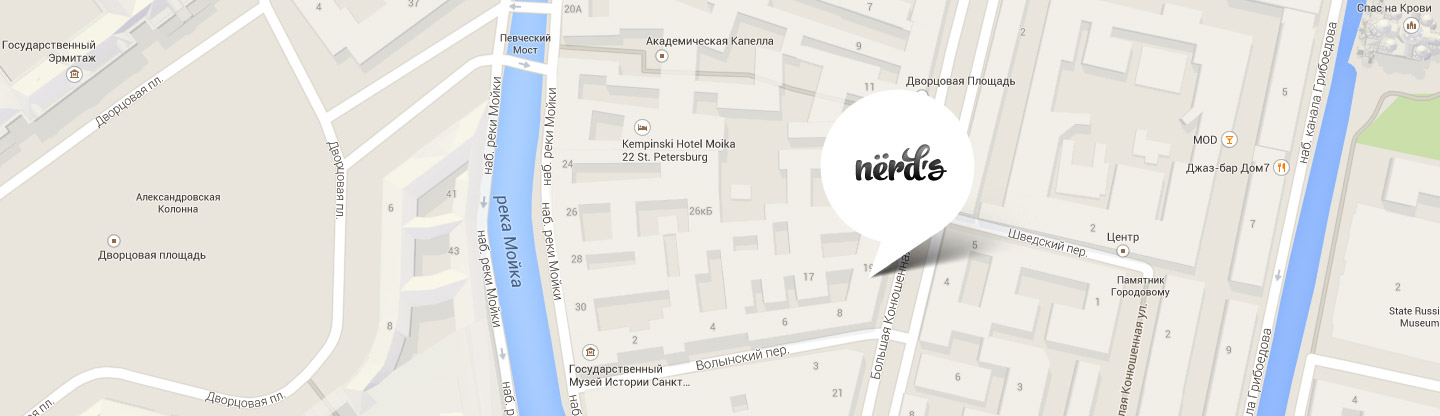
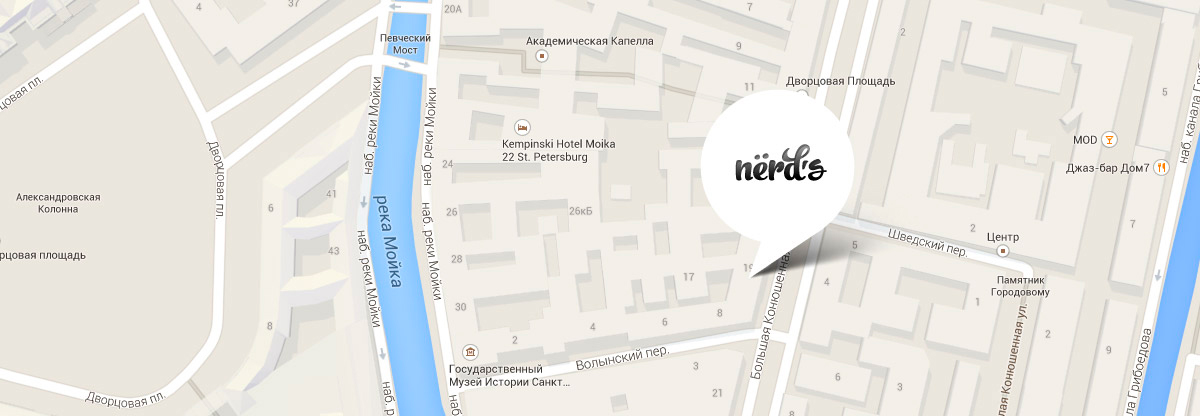
Изменена карта, исправлены мелкие неточности с цветами и эффектами

diff --git a/css/style.css b/css/style.css
@@ -795,11 +795,12 @@ opacity: 0.3;
   background-image: url(../img/checkbox-on.svg);
   background-repeat: no-repeat;
   background-position: 0 0;
-  opacity: 0.4;        
+
+  opacity: 0.4;
 }
 
 .filter-input-checkbox:checked + .filter-option-label:hover::after {
-  opacity: 1;        
+  opacity: 1;
 }
 
 .filter-input:hover + .filter-option-label,
@@ -841,7 +842,13 @@ opacity: 0.3;
 
   background-color: #a6a6a6; 
   border-radius: 50%;
+
+  opacity: 0.4;
 } 
+
+.filter-input:checked + .filter-option-label:hover::after {
+  opacity: 1;
+}
 
 .filter-button {
   color: #000000;
@@ -865,9 +872,9 @@ opacity: 0.3;
   display: -ms-flexbox;
   display: flex;
   width: 760px;
-  margin-top: 0;
+  margin: 0;
   margin-bottom: 55px;
-  padding-left: 0;
+  padding: 0;
 
   list-style: none;
 }
@@ -879,11 +886,11 @@ opacity: 0.3;
 }
 
 .sorting-item:nth-child(1) {
-  margin-right: 200px;
+  margin-right: 265px;
 }
 
 .sorting-item:nth-child(4) {
-  margin-right: 40px;
+  margin-right: 50px;
 }
 
 .sorting-item:nth-child(5) {
@@ -892,6 +899,7 @@ opacity: 0.3;
 
 .sorting-item:last-child {
   margin-right: 0;
+  padding-right: 0;
 }
 
 .sorting-title {
@@ -925,7 +933,9 @@ opacity: 0.3;
 }
 
 .catalog {
-  width: 760px;
+  width: 780px;
+
+  margin-left: 18px;
 }
 
 .catalog-list {
@@ -946,11 +956,20 @@ opacity: 0.3;
 
   width: 360px;
 
+
+  margin: 0;
+  padding: 0;
   margin-bottom: 35px;
   margin-right: 40px;
 
   -webkit-box-shadow: 0 0 10px rbga(0, 0, 0, 0.1);
           box-shadow: 0 0 10px rbga(0, 0, 0, 0.1); 
+
+  border: 1px solid #dbdbdb;        
+}
+
+.catalog-item:hover {
+  box-shadow: 0 0 10px #d5d5d5;
 }
 
 .catalog-item:nth-of-type(even) {
@@ -962,7 +981,7 @@ opacity: 0.3;
 }
 
 .catalog-item-browser {
-  margin-bottom: -10px;
+  margin-bottom: -8px;
   opacity: 0.12;
 }
 
@@ -984,6 +1003,7 @@ opacity: 0.3;
   -webkit-animation: catalog-item-bounce 0.7s;
           animation: catalog-item-bounce 0.7s;
 }
+
 
 .catalog-item:hover .catalog-item-block {
   display: block;
@@ -1054,7 +1074,7 @@ opacity: 0.3;
 }
 
 .pagination-item {
-  margin-right: 5px;
+  margin-right: 11px;
 }
 
 .pagination-item:last-child {
@@ -1085,7 +1105,7 @@ opacity: 0.3;
 .pagination-link-current {
   color: #000000;
   padding: 13px 20px;
-  border: 2px solid #a6a6a6;
+  border: 2px solid #dbdbdb;
   background-color: #ffffff;
 }
 
@@ -1102,7 +1122,7 @@ opacity: 0.3;
 }
 
 .map {
-  width: 1440px;
+  width: 1200px;
   margin: 0 auto;
   position: relative;
 }
@@ -1111,8 +1131,8 @@ opacity: 0.3;
   position: absolute;
  
   width: 320px;
-  top: 55px;
-  left: 140px;
+  top: 50px;
+  left: 90px;
 
   background-color: #ffffff;
   z-index: 2;
@@ -1237,13 +1257,12 @@ opacity: 0.3;
 .modal {
   position: fixed;
 
-  background-position: 0 0;
   background-color: #ffffff;
 
   -webkit-box-shadow: 0 30px 50px rgba(0, 0, 0, 0.7);
           box-shadow: 0 30px 50px rgba(0, 0, 0, 0.7);
 
-  top: 100px;
+  bottom: 180px;
   left: 50%;
 }
 

diff --git a/index.html b/index.html
@@ -56,7 +56,7 @@
               <a class="slider-item-button button" href="#">УЗНАТЬ БОЛЬШЕ</a>
             </li>
             <li class="slider-item">
-              <h3 class="slider-title">Только ночь, только хардкор</h3>
+              <h3 class="slider-title">Только ночь,<br> только хардкор</h3>
               <p class="slider-text">Работать днем, как все? Мы против этого<br> Ближе к полуночи работа только начинается.</p>
               <a class="slider-item-button button" href="#">УЗНАТЬ БОЛЬШЕ</a>
             </li>
@@ -153,7 +153,7 @@
         <h2 class="visually-hidden">191186, Санкт-Петербург, ул. Б. Конюшенная, д.19/8</h2>
         <div class="map-block">
           <p class="map-wrapper">
-            <img class="map-img" src="img/map-marker.jpg" width="1440" height="420" alt="191186, Санкт-Петербург, ул. Б. Конюшенная, д.19/8">
+            <img class="map-img" src="img/map-marker.jpg" width="1200" height="420" alt="191186, Санкт-Петербург, ул. Б. Конюшенная, д.19/8">
           </p>
         </div>
         <section class="map-contacts">

diff --git a/catalog.html b/catalog.html
@@ -251,7 +251,7 @@
         <h2 class="visually-hidden">191186, Санкт-Петербург, ул. Б. Конюшенная, д.19/8</h2>
         <div class="map-block">
           <p class="map-wrapper">
-            <img class="map-img" src="img/map-marker.jpg" width="1440" height="420" alt="191186, Санкт-Петербург, ул. Б. Конюшенная, д.19/8">
+            <img class="map-img" src="img/map-marker.jpg" width="1200" height="420" alt="191186, Санкт-Петербург, ул. Б. Конюшенная, д.19/8">
           </p>
         </div>
         <section class="map-contacts">
